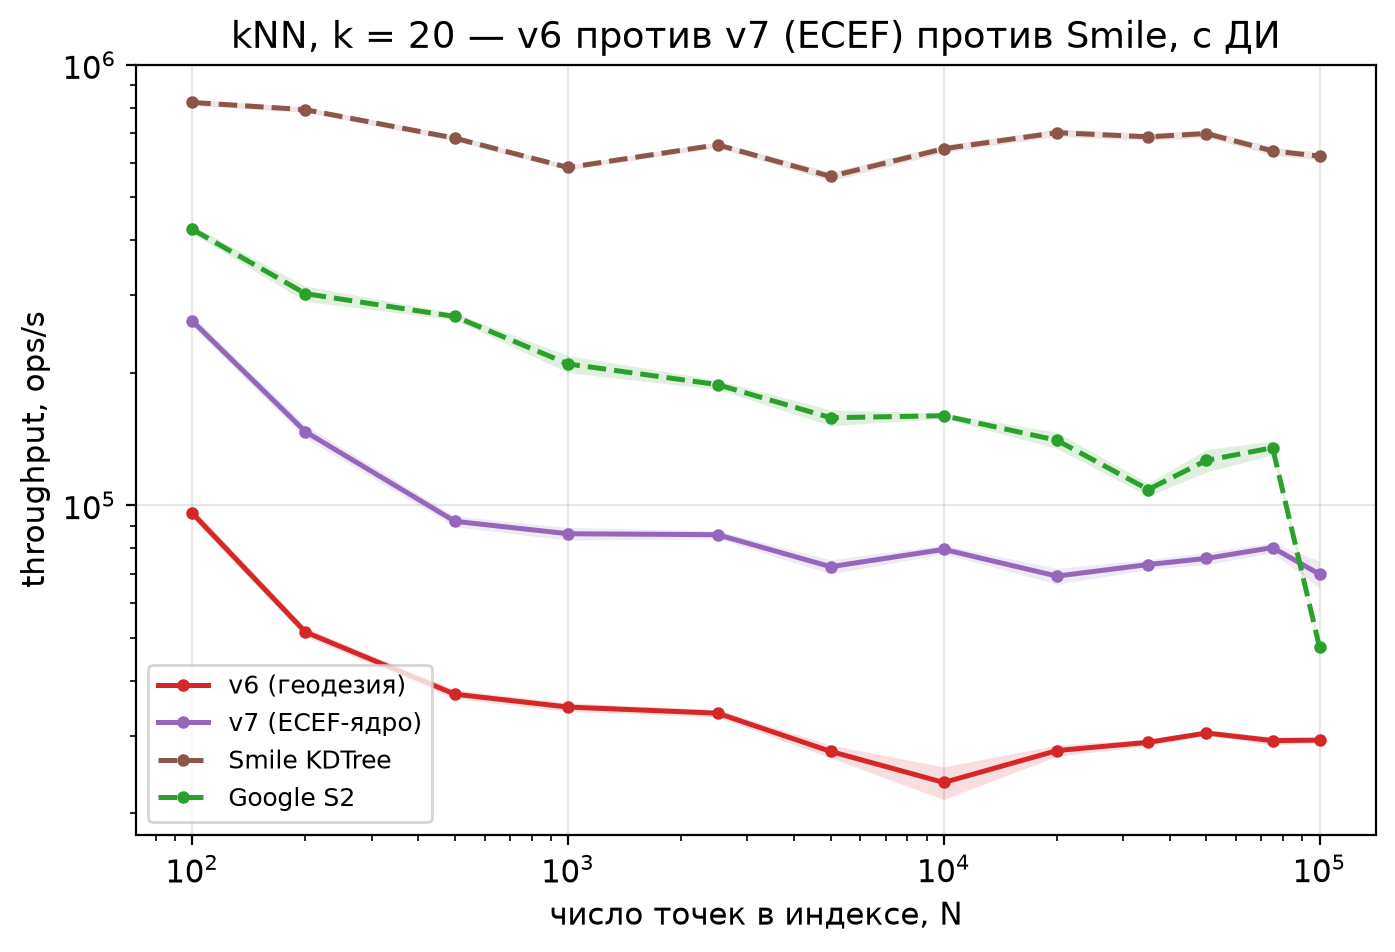
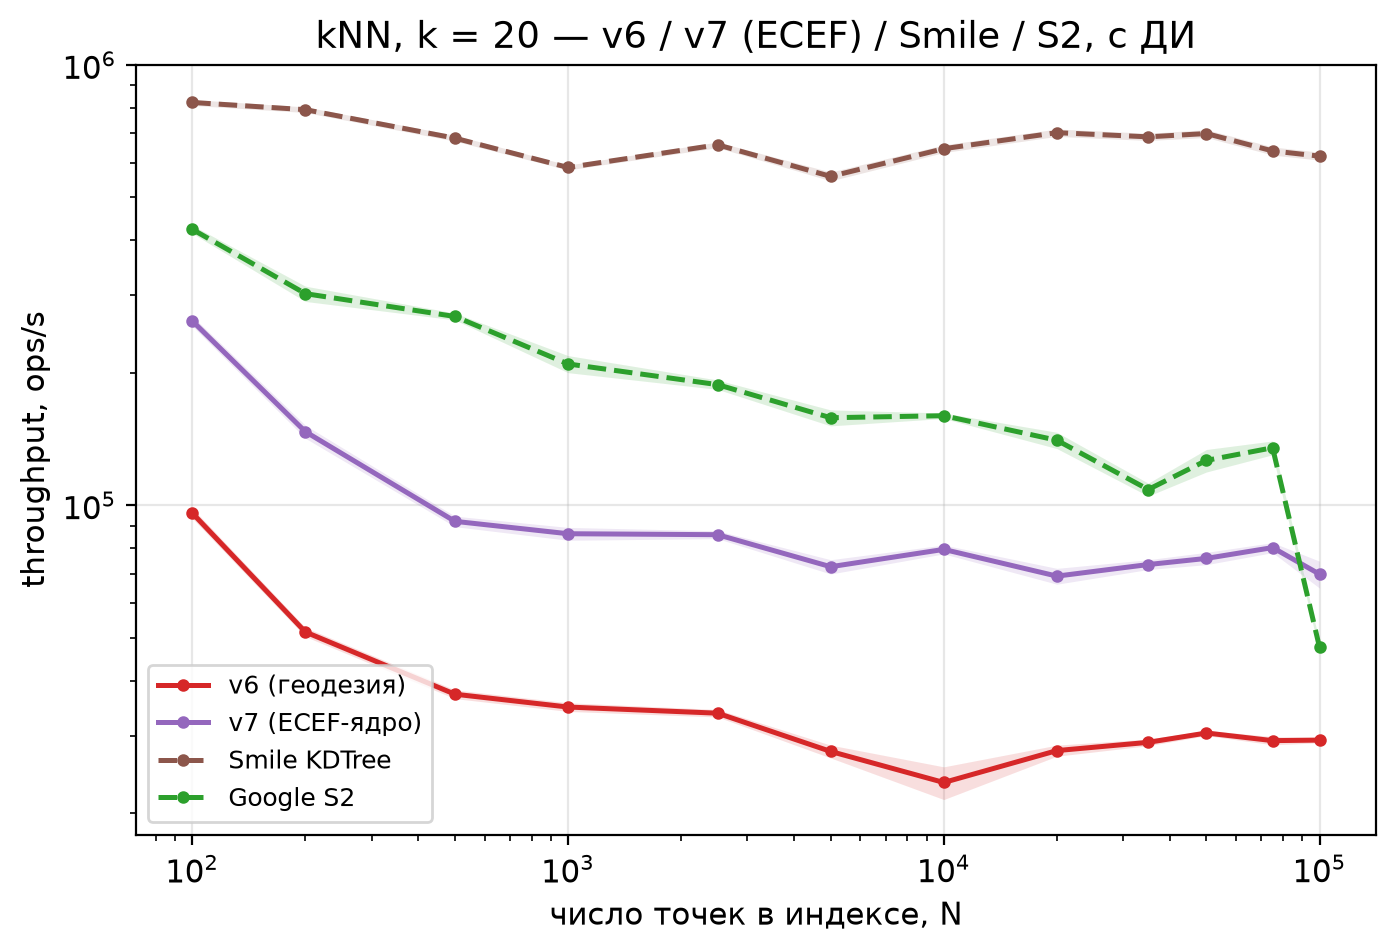
docs: final conclusions and s2 charts

Changed region(s): [[0.1541, 0.0, 0.9247, 0.0609]]

diff --git a/lab-1-java-geo-kdtree/tools/make_ecef_charts.py b/lab-1-java-geo-kdtree/tools/make_ecef_charts.py
@@ -112,7 +112,7 @@ def chart_throughput(data):
         ax.set_yscale("log")
         ax.set_xlabel("число точек в индексе, N")
         ax.set_ylabel("throughput, ops/s")
-        ax.set_title(f"{title} — v6 против v7 (ECEF) против Smile, с ДИ")
+        ax.set_title(f"{title} — v6 / v7 (ECEF) / Smile / S2, с ДИ")
         ax.legend(fontsize=9)
         fig.savefig(out / f"throughput-{fam}-{param}.png")
         plt.close(fig)

diff --git a/lab-1-java-geo-kdtree/README.md b/lab-1-java-geo-kdtree/README.md
@@ -18,6 +18,7 @@
 ./gradlew :benchmarks:bench    # полный JMH-прогон (warmup 15 x 0.5s, 40 итераций — долго)
 ./gradlew :benchmarks:benchPublic   # бенчмарки публичной библиотеки (Smile KDTree на ECEF-3D)
 ./gradlew :benchmarks:benchEcef     # бенчмарки экспериментального ECEF-ядра (см. report/smile-comparison.md)
+./gradlew :benchmarks:benchS2       # бенчмарки Google S2 (второй публичный ориентир)
 ./gradlew :benchmarks:benchSmoke    # один быстрый прогон для проверки запуска (HW1_BENCH_SMOKE=1)
 ./gradlew :profile-runner:run --args="--mode radius --seconds 120 --n 100000 --radius 1000 --k 20"
 ```
